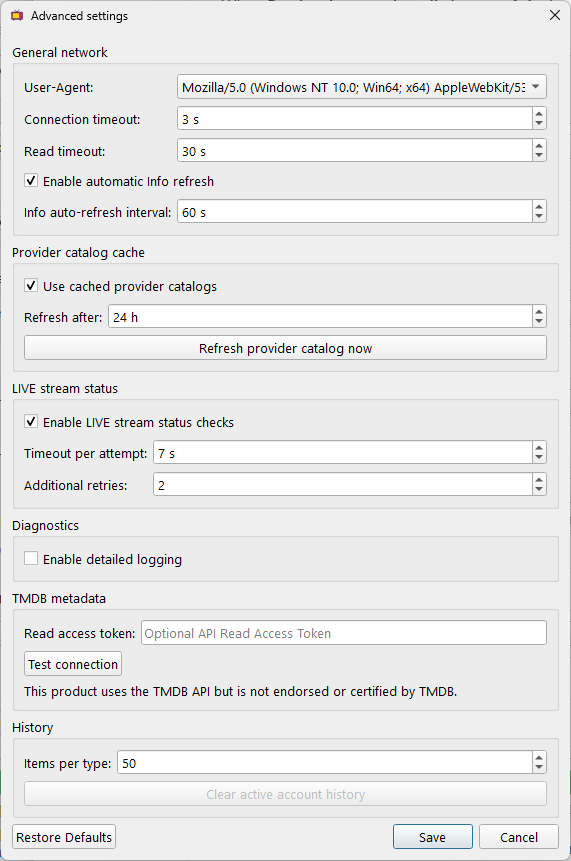
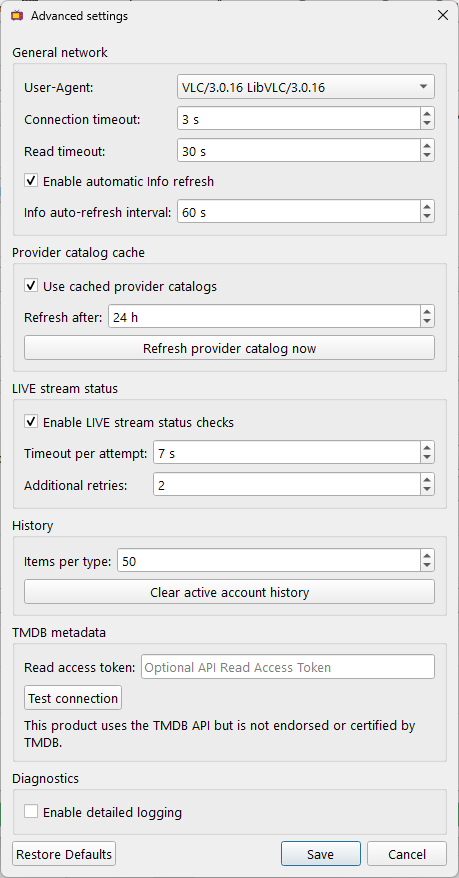
Add custom favorite ordering

diff --git a/IPTVPlayer.py b/IPTVPlayer.py
@@ -128,6 +128,7 @@ from iptv_player.storage import (
     record_history,
     remove_history_entry,
     repair_misclassified_history,
+    reorder_favorites,
     resume_position,
     save_provider_preferences,
     set_favorite,
@@ -1447,7 +1448,7 @@ class IPTVPlayerApp(QMainWindow):
     def configure_search_bar(self, search_bar, list_content_type, stream_type, list_widgets, search_history_list, search_history_list_idx):
         sort_a_z        = QAction("A-Z", self)
         sort_z_a        = QAction("Z-A", self)
-        sort_disabled   = QAction("Sorting disabled", self)
+        sort_disabled   = QAction("Default order", self)
         for sorting_action in (sort_a_z, sort_z_a, sort_disabled):
             sorting_action.setCheckable(True)
 
@@ -1814,6 +1815,8 @@ class IPTVPlayerApp(QMainWindow):
             search_bar, list_content_type, stream_type, list_widgets,
             sorting_enabled, sort_order
         )
+        if list_content_type == 'streaming':
+            self._update_favorite_reordering(stream_type)
 
         if self.remember_category_sorting and list_content_type == 'streaming':
             category_name, category_id = self._selected_category(stream_type)
@@ -2091,6 +2094,10 @@ class IPTVPlayerApp(QMainWindow):
                 self.streaming_item_keyboard_activated
             )
             list_widget.keyboardSelected.connect(self.streaming_item_clicked)
+            list_widget.itemsReordered.connect(
+                lambda content_type=spec['stream_type']:
+                self._favorite_items_reordered(content_type)
+            )
             list_widget.setContextMenuPolicy(Qt.CustomContextMenu)
             list_widget.customContextMenuRequested.connect(
                 lambda position, content_type=spec['stream_type']:
@@ -2395,7 +2402,7 @@ class IPTVPlayerApp(QMainWindow):
         if not isinstance(saved, dict):
             return
         # An account without a saved override must inherit the global setting.
-        # This preserves "Sorting disabled" on a fresh installation.
+        # This preserves "Default order" on a fresh installation.
         saved_fallback = saved.get('fallback', self.category_sort_fallback)
         if saved_fallback in ('a_z', 'z_a', 'disabled'):
             self.category_sort_fallback = saved_fallback
@@ -2492,7 +2499,7 @@ class IPTVPlayerApp(QMainWindow):
         sort_order = 1 if sorting_order == "Z-A" else 0
         print(
             f"sorting {sorting_order}"
-            if sorting_enabled else "sorting disabled"
+            if sorting_enabled else "default order"
         )
         for stream_type in CONTENT_TYPES:
             self.sort_list(
@@ -2758,9 +2765,9 @@ class IPTVPlayerApp(QMainWindow):
 
         self.default_sorting_order_box = QComboBox()
         self.default_sorting_order_box.addItems([
-            "A-Z", "Z-A", "Sorting disabled", REMEMBER_LIST_SORTING
+            "A-Z", "Z-A", "Default order", REMEMBER_LIST_SORTING
         ])
-        self.default_sorting_order_box.setCurrentText("Sorting disabled")
+        self.default_sorting_order_box.setCurrentText("Default order")
         self.default_sorting_order_box.currentTextChanged.connect(lambda e: self.set_default_sorting_order(e, self.default_sorting_order_box))
 
         self.update_checker = QPushButton("Check for updates")
@@ -4270,6 +4277,57 @@ class IPTVPlayerApp(QMainWindow):
         entries = self.entries_per_stream_type.get(stream_type, []) or []
         return entries_in_favorite_order(self.favorites_file, stream_type, entries)
 
+    def _favorite_reordering_enabled(self, stream_type):
+        """Return whether the visible list can safely define favorite order."""
+        category_name, _category_id = self._selected_category(stream_type)
+        sorting_enabled, _sort_order = getattr(
+            self.streaming_search_bars[stream_type],
+            'current_sorting',
+            (self.sorting_enabled, self.sorting_order),
+        )
+        return (
+            category_name == self.fav_categories_text
+            and not sorting_enabled
+            and not self.streaming_search_bars[stream_type].text().strip()
+            and (stream_type != 'Series' or self.series_navigation_level == 0)
+        )
+
+    def _update_favorite_reordering(self, stream_type):
+        """Enable internal row moves only for an unfiltered default-order view."""
+        list_widget = self.streaming_list_widgets.get(stream_type)
+        if list_widget is None:
+            return
+        enabled = self._favorite_reordering_enabled(stream_type)
+        mode = (
+            QtWidgets.QAbstractItemView.InternalMove
+            if enabled else QtWidgets.QAbstractItemView.NoDragDrop
+        )
+        list_widget.setDragDropMode(mode)
+        list_widget.setDefaultDropAction(Qt.MoveAction)
+        list_widget.setDragDropOverwriteMode(False)
+
+    def _favorite_items_reordered(self, stream_type):
+        """Save a completed favorite drag-and-drop operation for this account."""
+        if not self._favorite_reordering_enabled(stream_type):
+            return
+        list_widget = self.streaming_list_widgets[stream_type]
+        entries = []
+        for row in range(list_widget.count()):
+            entry = list_widget.item(row).data(Qt.UserRole)
+            if isinstance(entry, dict):
+                entries.append(entry)
+        id_key = 'series_id' if stream_type == 'Series' else 'stream_id'
+        ordered_ids = [entry.get(id_key) for entry in entries]
+        ordered_ids = [item_id for item_id in ordered_ids if item_id is not None]
+        reorder_favorites(self.favorites_file, stream_type, ordered_ids)
+        self.currently_loaded_streams[stream_type] = list(entries)
+
+        cache_key = self._category_view_key(
+            stream_type, self.fav_categories_text
+        )
+        self.category_view_cache[stream_type][cache_key] = list(entries)
+        self.active_category_view_key[stream_type] = cache_key
+
     def _category_view_key(self, stream_type, category_name, category_id=None):
         """Build the cache key shared by prepared entries and Qt list items."""
         sorting_enabled, sort_order = self._sorting_for_category(
@@ -4437,6 +4495,7 @@ class IPTVPlayerApp(QMainWindow):
                 list_widget.viewport().update()
 
             list_widget.scrollToTop()
+            self._update_favorite_reordering(stream_type)
 
             self.set_progress_bar(100, "Loading finished")
 
@@ -4811,8 +4870,10 @@ class IPTVPlayerApp(QMainWindow):
                 self.streaming_list_widgets['Series'].addItem(item)
 
         self.animate_progress(0, 100, "Loading finished")
+        self._update_favorite_reordering('Series')
 
     def show_seasons(self, seasons_data):
+        self._update_favorite_reordering('Series')
         self.set_progress_bar(0, "Loading items")
 
         self.fetch_series_info(
@@ -4822,6 +4883,7 @@ class IPTVPlayerApp(QMainWindow):
         )
 
     def show_episodes(self, episodes_data):
+        self._update_favorite_reordering('Series')
         self.set_progress_bar(0, "Loading items")
 
         self.streaming_list_widgets['Series'].clear()
@@ -5755,6 +5817,8 @@ class IPTVPlayerApp(QMainWindow):
                     list_widget.setUpdatesEnabled(True)
                     list_widget.viewport().update()
 
+            if list_content_type == 'streaming':
+                self._update_favorite_reordering(stream_type)
             self.set_progress_bar(100, f"Loaded search results")
         except Exception as e:
             print(f"search in list failed: {e}")

diff --git a/tests/test_favorites.py b/tests/test_favorites.py
@@ -6,6 +6,7 @@ from iptv_player.storage.favorites import (
     account_favorites_file,
     entries_in_favorite_order,
     migrate_legacy_favorites_file,
+    reorder_favorites,
     set_favorite,
 )
 
@@ -82,6 +83,41 @@ class FavoriteStorageTests(unittest.TestCase):
                 entries_in_favorite_order(str(file_path), "Live", entries),
                 [entries[1]],
             )
+
+    def test_reorders_favorites_without_position_fields(self):
+        with tempfile.TemporaryDirectory() as directory:
+            file_path = Path(directory) / "favorites.json"
+            set_favorite(str(file_path), "Movies", 10, True)
+            set_favorite(str(file_path), "Movies", 20, True)
+            set_favorite(str(file_path), "Movies", 30, True)
+
+            reorder_favorites(str(file_path), "Movies", [30, 10, 20])
+
+            entries = [
+                {"stream_id": 10, "favorite": True},
+                {"stream_id": 20, "favorite": True},
+                {"stream_id": 30, "favorite": True},
+            ]
+            ordered = entries_in_favorite_order(str(file_path), "Movies", entries)
+            self.assertEqual(
+                [entry["stream_id"] for entry in ordered], [30, 10, 20]
+            )
+
+    def test_reordering_movies_preserves_unrelated_shared_stream_ids(self):
+        with tempfile.TemporaryDirectory() as directory:
+            file_path = Path(directory) / "favorites.json"
+            file_path.write_text(
+                '{"stream_ids": [10, 999, 20]}', encoding="utf-8"
+            )
+
+            reorder_favorites(str(file_path), "Movies", [20, 10])
+
+            entries = [
+                {"stream_id": 10, "favorite": True},
+                {"stream_id": 20, "favorite": True},
+            ]
+            ordered = entries_in_favorite_order(str(file_path), "Movies", entries)
+            self.assertEqual([entry["stream_id"] for entry in ordered], [20, 10])
 
 
 if __name__ == "__main__":

diff --git a/tests/test_preferences.py b/tests/test_preferences.py
@@ -101,10 +101,10 @@ class ApplicationPreferenceTests(unittest.TestCase):
                 {"LIVE": True, "Movies": False, "Series": False},
             )
 
-    def test_sorting_defaults_to_disabled_and_removes_legacy_section(self):
+    def test_sorting_defaults_to_default_order_and_removes_legacy_section(self):
         with tempfile.TemporaryDirectory() as directory:
             filename = Path(directory) / "userdata.ini"
-            self.assertEqual(load_sorting_preference(filename), "Sorting disabled")
+            self.assertEqual(load_sorting_preference(filename), "Default order")
             filename.write_text(
                 "[Category sorting]\nfallback=z_a\n", encoding="utf-8"
             )
@@ -125,6 +125,16 @@ class ApplicationPreferenceTests(unittest.TestCase):
             )
 
             self.assertEqual(load_sorting_preference(filename), "Remember per list")
+
+    def test_legacy_disabled_sorting_label_is_upgraded_when_loaded(self):
+        with tempfile.TemporaryDirectory() as directory:
+            filename = Path(directory) / "userdata.ini"
+            filename.write_text(
+                "[Sorting order]\nOrder=Sorting disabled\n",
+                encoding="utf-8",
+            )
+
+            self.assertEqual(load_sorting_preference(filename), "Default order")
 
 if __name__ == "__main__":
     unittest.main()

diff --git a/iptv_player/storage/favorites.py b/iptv_player/storage/favorites.py
@@ -41,6 +41,31 @@ def set_favorite(file_path, stream_type, stream_id, enabled):
     write_json_file(file_path, data)
 
 
+def reorder_favorites(file_path, stream_type, ordered_ids):
+    """Persist a user-defined order without disturbing other content types."""
+    data = read_json_mapping(file_path)
+    key = _favorite_key(stream_type)
+    requested = list(dict.fromkeys(ordered_ids or []))
+
+    if stream_type == "Series":
+        data[key] = requested
+    else:
+        # LIVE and Movies historically share stream_ids. Replace only the IDs
+        # visible in the reordered list so the other content type keeps its slots.
+        requested_set = set(requested)
+        replacements = iter(requested)
+        merged = []
+        for item_id in data.get(key, []) or []:
+            if item_id in requested_set:
+                merged.append(next(replacements, item_id))
+            else:
+                merged.append(item_id)
+        merged.extend(replacements)
+        data[key] = merged
+
+    write_json_file(file_path, data)
+
+
 def entries_in_favorite_order(file_path, stream_type, entries):
     """Return favorite entries in saved order, with a catalog-order fallback."""
     entries = list(entries or [])

diff --git a/iptv_player/ui/widgets.py b/iptv_player/ui/widgets.py
@@ -9,6 +9,7 @@ class KeyboardNavigableListWidget(QListWidget):
 
     keyboardSelected = pyqtSignal(QListWidgetItem)
     keyboardActivated = pyqtSignal(QListWidgetItem)
+    itemsReordered = pyqtSignal()
 
     def __init__(self, parent=None):
         super().__init__(parent)
@@ -16,6 +17,14 @@ class KeyboardNavigableListWidget(QListWidget):
 
     def set_tab_target(self, target):
         self._tab_target = target
+
+    def dropEvent(self, event):
+        """Report a completed internal row move to the owning catalog view."""
+        previous_order = [id(self.item(row)) for row in range(self.count())]
+        super().dropEvent(event)
+        current_order = [id(self.item(row)) for row in range(self.count())]
+        if current_order != previous_order:
+            self.itemsReordered.emit()
 
     def keyPressEvent(self, event):
         if event.key() in (Qt.Key_Return, Qt.Key_Enter, Qt.Key_Space):

diff --git a/iptv_player/config/preferences.py b/iptv_player/config/preferences.py
@@ -11,6 +11,8 @@ INTERNAL_VLC_COMMAND = "<embedded-vlc>"
 CONTENT_TYPES = ("LIVE", "Movies", "Series")
 THEME_MODES = ("System", "Light", "Dark")
 LEGACY_REMEMBER_SORTING = "Remember per category"
+LEGACY_DISABLED_SORTING = "Sorting disabled"
+DEFAULT_ORDER_SORTING = "Default order"
 
 
 @dataclass(frozen=True)
@@ -127,7 +129,9 @@ def load_sorting_preference(filename):
     value = config.get("Sorting order", "Order", fallback="")
     if value == LEGACY_REMEMBER_SORTING:
         return REMEMBER_LIST_SORTING
-    return value or "Sorting disabled"
+    if value == LEGACY_DISABLED_SORTING:
+        return DEFAULT_ORDER_SORTING
+    return value or DEFAULT_ORDER_SORTING
 
 
 def save_sorting_preference(filename, sorting_order):

diff --git a/iptv_player/storage/__init__.py b/iptv_player/storage/__init__.py
@@ -5,6 +5,7 @@ from .favorites import (
     account_favorites_file,
     entries_in_favorite_order,
     migrate_legacy_favorites_file,
+    reorder_favorites,
     set_favorite,
 )
 from .json_file import read_json_mapping, write_json_file
@@ -36,6 +37,7 @@ __all__ = (
     "remove_account_data_files",
     "record_history",
     "remove_history_entry",
+    "reorder_favorites",
     "repair_misclassified_history",
     "resume_position",
     "set_favorite",

diff --git a/README.md b/README.md
@@ -152,7 +152,7 @@ The theme can be set to:
 The default sorting mode can be configured globally.
 
 Available modes include:
-- **Sorting disabled** — keep the order provided by the IPTV provider
+- **Default order** — keep the order provided by the IPTV provider; in Favorites, items can be dragged into a custom order saved separately for each account
 - **A → Z**
 - **Z → A**
 - **Remember per list** — each list/category can use its own sorting mode, selected with the sorting button and remembered for future use
